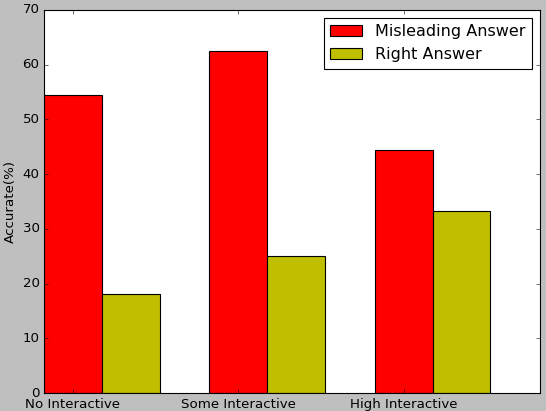
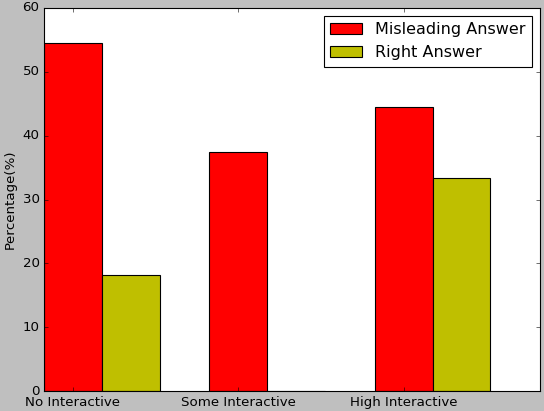
update

Changed region(s): [[0.0, 0.0, 1.0, 1.0]]

diff --git a/paper/main.tex b/paper/main.tex
@@ -12,7 +12,7 @@
 \usepackage{url}
 \usepackage{hyperref}
 \usepackage{caption}
-\linespread{1}
+\linespread{1.1}
 \usepackage{float}
 \setlength{\parskip}{0.4em}
 \usepackage{subcaption}
@@ -83,10 +83,8 @@ At the same time, the data science, a latest and hottest thing started to join t
 
 But, how the interactive and user experience revolution affect the audience behavior of the online news website? We have no answer yet, so we made a 3-LEVEL Interactive Comparison method, which can collect the audience behavior data to analysis the different level interactive influence through the multivariate test on the same one data-driven article. In this method, at first, we deliver the no interactive news page, then we deliver news with part of interaction like tool-tips and mouse hover, finally we deliver the news with tips about how to use the interaction and the bi-direction interaction (direction-1: Overview to Detail, direction-2: Detail to Overview). To collect the results of audience pattern cognition about the main idea and some details of this article, we also build a back-end system with questionnaire to collect the time spend of audience.
 
- Through this practical experiment, we dedicate to explore the relationship between user perception and interactive, two hypothesis are proposed:
- 1. Higher level of interactive visualization can improve user's perception for data journalism
- 2. Higher level of interactive visualization can reduce the misleading by article.
- 
+ Through this practical experiment, we dedicate to explore the relationship between user perception and interactive, four hypotheses are proposed in our study, which are listed in Section 3.
+
  To verify these hypothesis, we designed an 3-level comparison interactive method which with the 3 levels of the interactive and visualization on the same article, then collect the users-stay time with the content understanding questionnaire through the back-end information collect system. 
 
 To evaluate our method and hypothesis, we used a real world article from FiveThirtyEight.com and reproduce it with three versions then put it online. This article contains the information about 2016 US presidential election, include the vote rate for Trump among different states and different race.
@@ -116,6 +114,14 @@ These articles, methods, and experiments gave us a lot of knowledge of the visua
         \end{tabular}
      \caption{Three level of Interactive}
 \end{table}
+\subsection{Hypotheses}
+Based on the related work, we decide to divide the interactivity perception experiment into three levels. The hypothesis we put forward are listed as follows.
+
+\textbf{Hypothesis 1.} Users are easier to perceive the information with higher interaction.\\
+\textbf{Hypothesis 2.} Users are more willing to engage in the story with higher interaction.\\
+\textbf{Hypothesis 3.} Higher level of interactive visualization can improve user's perception for data journalism.\\
+\textbf{Hypothesis 4.} Higher level of interactive visualization can reduce the misleading by article.\\
+
 \subsection{Interection Levels Design}
 In this experiment we design three levels of interactive visualization as indicated in table 1. To control the noise, all of the three levels of interactive visualization are embeded in an news website.\\
 \textbf{Level 0:} Designed with zero interaction. The website contains the original article, and static U.S. map, scatter plot, with tool tips that demonstrate the given data. \\
@@ -209,18 +215,28 @@ The Fig.3 shows the the box plot of time spend for each question. We can see tha
   \label{fig:6}
 \end{figure}
 \subsection{Time Spend Evaluation}
-Fig.4(a) show the average time spend for three levels in each question. From the bar chart we can see that in general, users tend to spend less on Level 1 than Level 0. However, when it comes to the high interactivity(Level2), the results shows that the users might spend more time on answering questions.
+Fig.4(a) shows the average time spend for three levels in each question. From the bar chart we can see that in general, users tend to spend less on Level 1 than Level 0. However, when it comes to the high interactivity(Level2), the results shows that the users might spend more time on answering questions.
 \subsection{Accuracy and Skip Rate Evaluation}
-\textbf{Accuracy Rate.} Fig.4(b) shows the average accuracy rate for three levels in each question. For Question 1-4(Map Visualizations), each levels results shows somewhat random, but combined with the skip rate, we can gain some insight from them. For question 5, surprisingly, the higher interactive level doesn't helps users to get higher correctness.
+\textbf{Accuracy Rate.} Fig.4(b) shows the average accuracy rate for three levels in each question. For Question 1-4(Map Visualizations), the average accuracy rate of each level shows somewhat random, but combined with the skip rate, we can gain some insight from them. For Question 5-6 (Scatter Plot Visualization), the average accuracy are expected to 
 
 \textbf{Skip Rate.} Fig.4(c) shows the average skip rate for three levels in each question. For Question 1-4(Map Visualizations), the level 0 shows a significant high skip rate than other two levels of interactivity. \\
 
+\begin{figure} [H]
+  \centering
+  \includegraphics[width=0.32\textwidth]{MisleadingQ6.png}
+  \caption{Fig 5. The comparison between the "Misleading Answer" and "Right Answer".}
+  \label{fig:6}
+\end{figure}
+
 \section{Discussion}
 \large
-\subsection{Test Result Analysis}
+\subsection{Test Result Findings}
+This part will discuss the test result in details and conclude the insights from the test result.
 
+For Question 1-4, time spend for Level 1 is less than Level 0, while time spend for Level 3 is more than the other two. So we can conclude that Some interactivity could help users to recognize the data faster. However, if the interactivity is too complex, users might have trouble the use the interaction. Therefore, designers must measure the complexity of their interactivity. The accuracy rate is random, so we can conclude that designed unsuitable interactivity can cause a misleading effect. However, since the Level 0 shows a significant higher skip rate in Question 1-4, we can conclude that the rich interactivity would make a users engage more in the test. The low skip rate of Level 1 and Level 2 indicates that a rich interactivity would make users more willing to participate in the test and feel more confident on the test.
 
 \subsection{Limitations and Future Research}
+
 We took a step out to evaluate if the different level of interactive can affect the audience of the news papers online in data journalism. For the experiment itself, we used five kinds of common interactive method in the experiment, as the front-end technology fast changing, the future research should consider not only the classic methods but the latest visualization technology. Meanwhile, with the time limit, we can not find more random sample to join this experiment, it should be improved in the future work.
 
 In the next stage, we decided to make a crowd-source experiment and collect more different kinds of data-driven news like entertainment and sport to balance the bias of the different audience reading preference, to make the result more convincing.
@@ -262,8 +278,6 @@ X
 \bibitem{c13} Web Interactivity Perception Experiment on Real articles L0: https://yiminlin1994.github.io/gradfinal/index1.html
 \bibitem{c14} Web Interactivity Perception Experiment on Real articles L1: https://yiminlin1994.github.io/gradfinal/index2.html
 \bibitem{c15} Web Interactivity Perception Experiment on Real articles L2: https://yiminlin1994.github.io/gradfinal/index3.html 
-\bibitem{c13} 
-\bibitem{c13} 
 
 
 \end{thebibliography}
